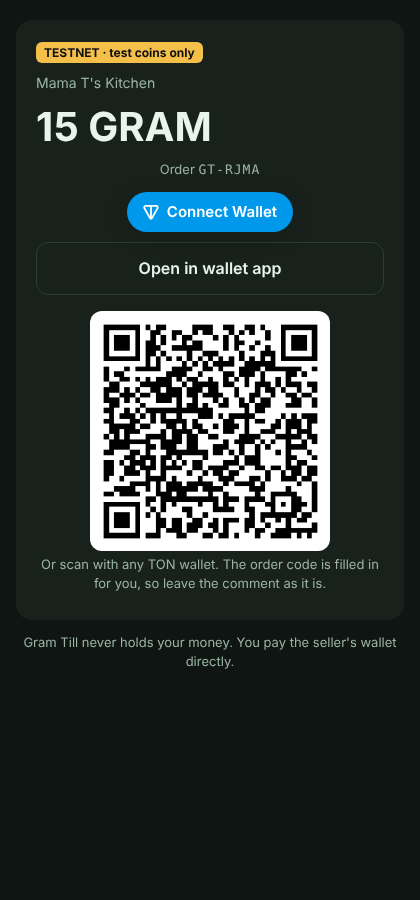
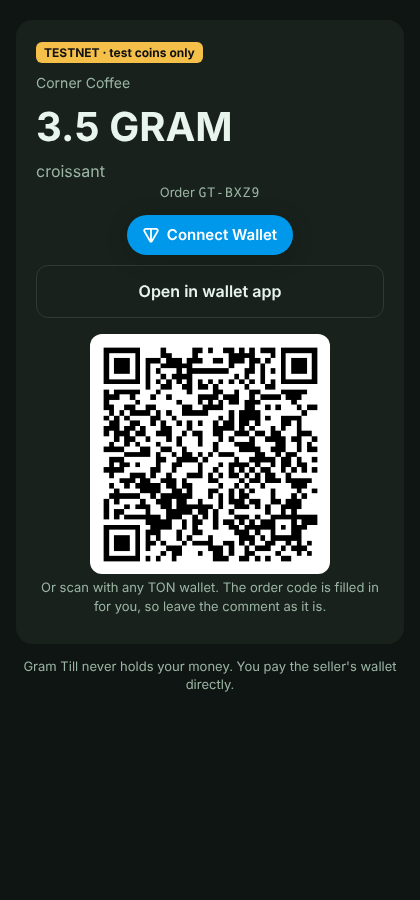
Worldwide by default: per-seller time zones, international examples, global pitch
- /timezone per seller (any IANA zone); server default UTC instead of Africa/Lagos
- Neutral demo shop (Corner Coffee) and examples; plural menu items ("two lattes")
- Fix: a ?pair= link now replaces a stale stored token (found while re-shooting screens)
- Simulator screenshots re-shot

Claude-Session: https://claude.ai/code/session_013ZMLVDSgRGfavTpG92Yftw

diff --git a/server/src/bot.ts b/server/src/bot.ts
@@ -3,7 +3,7 @@ import QRCode from 'qrcode'
 import type { Customer, Order, Seller, Store } from './db.js'
 import { fromNano, toNano } from './money.js'
 import type { TillBus } from './processor.js'
-import { isError, type Notifier, type TillService } from './service.js'
+import { isError, isValidTimezone, type Notifier, type TillService } from './service.js'
 import { friendlyAddress, isValidAddress, rawAddress, type Network } from './ton.js'
 import { parseCommand } from './voice.js'
 
@@ -14,6 +14,7 @@ interface BotDeps {
   service: TillService
   network: Network
   publicUrl: string
+  defaultTimezone: string
   log: (...a: unknown[]) => void
 }
 
@@ -24,12 +25,13 @@ const HELP = `*Gram Till*: a hands-free till for your Telegram shop, on Even G2 
 *Set up*
 /wallet <address>: change the wallet you get paid into
 /name <shop name>: rename your shop
-/menu jollof 12: set a menu price (/menu to list, /menu remove jollof)
+/menu latte 4: set a menu price (/menu to list, /menu remove latte)
+/timezone Europe/Berlin: your local time zone (for "today" totals)
 /link: your shop link and counter QR for customers
 
 *Use*
 /pair: 6-digit code to connect your glasses
-/charge Tunde 15 for jollof: charge from Telegram
+/charge Maria 12 for 2 lattes: charge from Telegram
 /waiting · /today · /customers
 
 Gram Till never holds money or keys. It only watches your wallet and sends payment links.`
@@ -93,9 +95,19 @@ export async function startBot(d: BotDeps): Promise<Notifier> {
     const seller = sellerOf(ctx)
     if (!seller) return ctx.reply('Send /start to set up your shop first.')
     const name = ctx.match?.trim()
-    if (!name) return ctx.reply('Usage: /name Mama T’s Kitchen')
+    if (!name) return ctx.reply('Usage: /name Corner Coffee')
     d.store.updateSellerName(seller.id, name.slice(0, 40))
     return ctx.reply(`✅ Shop name: ${name.slice(0, 40)}`)
+  })
+
+  bot.command('timezone', async ctx => {
+    const seller = sellerOf(ctx)
+    if (!seller) return ctx.reply('Send /start to set up your shop first.')
+    const tz = ctx.match?.trim() ?? ''
+    if (!tz) return ctx.reply(`Your till's day runs on ${seller.timezone ?? d.defaultTimezone}.\nChange it: /timezone Europe/Berlin (any IANA zone, e.g. America/New_York, Asia/Dubai, Asia/Jakarta)`)
+    if (!isValidTimezone(tz)) return ctx.reply('Unknown time zone. Examples: Europe/London, America/Sao_Paulo, Asia/Dubai, Asia/Tokyo')
+    d.store.updateSellerTimezone(seller.id, tz)
+    return ctx.reply(`✅ "Today" now follows ${tz}`)
   })
 
   bot.command('pair', async ctx => {
@@ -112,7 +124,7 @@ export async function startBot(d: BotDeps): Promise<Notifier> {
     if (!args) {
       const menu = d.store.listMenu(seller.id)
       return ctx.reply(
-        menu.length ? '📋 Menu\n' + menu.map(m => `• ${m.item}: ${fromNano(m.amountNano)} GRAM`).join('\n') + '\n\nSay "charge two jollof" on the glasses.' : 'No menu yet. Add one: /menu jollof 12',
+        menu.length ? '📋 Menu\n' + menu.map(m => `• ${m.item}: ${fromNano(m.amountNano)} GRAM`).join('\n') + '\n\nSay "charge two lattes" on the glasses.' : 'No menu yet. Add one: /menu latte 4',
       )
     }
     const rm = args.match(/^remove\s+(.+)$/i)
@@ -121,7 +133,7 @@ export async function startBot(d: BotDeps): Promise<Notifier> {
       return ctx.reply(`Removed ${rm[1]}`)
     }
     const m = args.match(/^(.+?)\s+(\d+(?:\.\d{1,9})?)$/)
-    if (!m) return ctx.reply('Usage: /menu jollof 12')
+    if (!m) return ctx.reply('Usage: /menu latte 4')
     d.store.setMenuItem(seller.id, m[1], toNano(m[2]))
     return ctx.reply(`✅ ${m[1].toLowerCase()}: ${m[2]} GRAM`)
   })
@@ -168,7 +180,7 @@ export async function startBot(d: BotDeps): Promise<Notifier> {
     if (!seller) return ctx.reply('Send /start to set up your shop first.')
     const ctxV = { menu: d.store.listMenu(seller.id).map(m => m.item), customers: d.store.listCustomers(seller.id).map(c => c.name) }
     const cmd = parseCommand(`charge ${ctx.match ?? ''}`, ctxV)
-    if (cmd.kind !== 'charge') return ctx.reply('Usage: /charge Tunde 15 for jollof')
+    if (cmd.kind !== 'charge') return ctx.reply('Usage: /charge Maria 12 for 2 lattes')
     const p = d.service.previewCharge(seller, cmd)
     if (isError(p)) return ctx.reply(p.error)
     const r = await d.service.charge(seller, p)
@@ -206,7 +218,7 @@ export async function startBot(d: BotDeps): Promise<Notifier> {
     if (!isValidAddress(text)) return ctx.reply("That doesn't look like a TON address. Try again.")
     steps.delete(ctx.chat.id)
     const seller = d.store.createSeller(st.name, friendlyAddress(text, d.network), rawAddress(text), ctx.chat.id)
-    await ctx.reply(`✅ ${seller.name} is ready. Watching \`${seller.address}\`${net}.\n\nNext: /link for your counter QR, /menu to add prices, /pair to connect your glasses.`, {
+    await ctx.reply(`✅ ${seller.name} is ready. Watching \`${seller.address}\`${net}.\n\nNext: /timezone for your local day, /link for your counter QR, /menu to add prices, /pair to connect your glasses.`, {
       parse_mode: 'Markdown',
     })
   })
@@ -217,7 +229,7 @@ export async function startBot(d: BotDeps): Promise<Notifier> {
     if (!seller || !ctx.chat || !ctx.from) return ctx.reply('Shop not found.')
     if (seller.tgChatId === ctx.chat.id) return ctx.reply("That's your own shop link. Share it with customers 🙂")
     const first = (ctx.from.first_name || 'Customer').trim()
-    // Keep names unique per shop so "charge Tunde" is never ambiguous.
+    // Keep names unique per shop so "charge Maria" is never ambiguous.
     let name = first
     const clash = d.store.findCustomer(seller.id, name)
     if (clash && clash.tgChatId !== ctx.chat.id) name = `${first} ${(ctx.from.last_name ?? ctx.from.username ?? String(ctx.from.id)).slice(0, 1).toUpperCase()}.`
@@ -276,6 +288,7 @@ export async function startBot(d: BotDeps): Promise<Notifier> {
     { command: 'waiting', description: 'Waiting orders' },
     { command: 'today', description: "Today's total" },
     { command: 'wallet', description: 'Wallet you get paid into' },
+    { command: 'timezone', description: 'Your local time zone' },
     { command: 'help', description: 'Help' },
   ])
   bot.catch(err => d.log('[bot] error:', err.message))

diff --git a/server/test/api.test.ts b/server/test/api.test.ts
@@ -4,7 +4,7 @@ import { buildApi } from '../src/api.js'
 import { Store } from '../src/db.js'
 import { toNano } from '../src/money.js'
 import { TillBus, processIncoming } from '../src/processor.js'
-import { TillService, startOfLocalDay, tzOffsetSeconds, type Notifier } from '../src/service.js'
+import { TillService, isValidTimezone, startOfLocalDay, tzOffsetSeconds, type Notifier } from '../src/service.js'
 import { pcmToWav } from '../src/stt.js'
 
 const ADDR = 'EQD2NmD_lH5f5u1Kj3KfGyTvhZSX0Eg6qp2a5IQUKXxOG21n'
@@ -110,6 +110,15 @@ describe('API', () => {
     expect(s.store.waitingOrders(s.seller.id)).toHaveLength(0)
   })
 
+  it("uses each seller's own time zone for today's totals", async () => {
+    const s = setup()
+    const api = await pair(s)
+    s.store.updateSellerTimezone(s.seller.id, 'Pacific/Kiritimati') // UTC+14, the earliest "today" on Earth
+    s.store.recordPayment({ txHash: 'y', sellerId: s.seller.id, amountNano: toNano('3'), comment: null, from: null, utime: Math.floor(Date.now() / 1000) - 60, result: 'unmatched', orderId: null })
+    const till = (await (await api('/api/till')).json()) as any
+    expect(till.today.total).toBe('3')
+  })
+
   it('serves the pay page and status', async () => {
     const s = setup()
     const order = s.store.createOrder({ sellerId: s.seller.id, label: 'Tunde', amountNano: toNano('15'), item: 'jollof' })
@@ -127,6 +136,18 @@ describe('API', () => {
 })
 
 describe('helpers', () => {
+  it('starts "today" at local midnight in any time zone', () => {
+    const t = Date.UTC(2026, 10, 22, 12, 0) / 1000 // noon UTC
+    expect(startOfLocalDay('UTC', t)).toBe(Date.UTC(2026, 10, 22, 0, 0) / 1000)
+    expect(startOfLocalDay('Asia/Tokyo', t)).toBe(Date.UTC(2026, 10, 21, 15, 0) / 1000) // UTC+9
+    expect(startOfLocalDay('America/New_York', t)).toBe(Date.UTC(2026, 10, 22, 5, 0) / 1000) // UTC-5 (standard time)
+    expect(startOfLocalDay('Asia/Kolkata', t)).toBe(Date.UTC(2026, 10, 21, 18, 30) / 1000) // UTC+5:30
+    expect(startOfLocalDay('Europe/Berlin', t)).toBe(Date.UTC(2026, 10, 21, 23, 0) / 1000) // UTC+1
+  })
+  it('validates IANA time zones', () => {
+    expect(isValidTimezone('America/Sao_Paulo')).toBe(true)
+    expect(isValidTimezone('Mars/Olympus')).toBe(false)
+  })
   it('computes Lagos day start', () => {
     expect(tzOffsetSeconds('Africa/Lagos')).toBe(3600)
     // 2026-11-22 00:30 Lagos = 2026-11-21 23:30 UTC -> day starts 2026-11-21 23:00 UTC

diff --git a/server/src/db.ts b/server/src/db.ts
@@ -9,6 +9,7 @@ export interface Seller {
   address: string // user-friendly form, used in links and display
   addressRaw: string // 0:… form, used for comparisons
   tgChatId: number | null
+  timezone: string | null // IANA zone, e.g. "Europe/Berlin"; null = server default
 }
 
 export interface Order extends MatchableOrder {
@@ -114,6 +115,9 @@ export class Store {
         hash TEXT NOT NULL
       );
     `)
+    // Migration: per-seller time zone (sellers can be anywhere).
+    const cols = this.db.prepare('PRAGMA table_info(sellers)').all() as { name: string }[]
+    if (!cols.some(c => c.name === 'timezone')) this.db.exec('ALTER TABLE sellers ADD COLUMN timezone TEXT')
   }
 
   // ---------- sellers ----------
@@ -128,6 +132,10 @@ export class Store {
   updateSellerAddress(id: number, address: string, addressRaw: string) {
     this.db.prepare('UPDATE sellers SET address = ?, address_raw = ? WHERE id = ?').run(address, addressRaw, id)
     this.db.prepare('DELETE FROM cursors WHERE seller_id = ?').run(id) // new wallet: start fresh
+  }
+
+  updateSellerTimezone(id: number, timezone: string) {
+    this.db.prepare('UPDATE sellers SET timezone = ? WHERE id = ?').run(timezone, id)
   }
 
   updateSellerName(id: number, name: string) {
@@ -334,7 +342,7 @@ export class Store {
 }
 
 function toSeller(r: any): Seller {
-  return { id: r.id, name: r.name, address: r.address, addressRaw: r.address_raw, tgChatId: r.tg_chat_id ?? null }
+  return { id: r.id, name: r.name, address: r.address, addressRaw: r.address_raw, tgChatId: r.tg_chat_id ?? null, timezone: r.timezone ?? null }
 }
 
 function toCustomer(r: any): Customer {

diff --git a/server/scripts/seed-demo.ts b/server/scripts/seed-demo.ts
@@ -13,8 +13,8 @@ const store = new Store(process.env.DB_PATH ?? './data/gramtill.db')
 const parsed = Address.parse(addr)
 const seller =
   store.listSellers().find(s => s.addressRaw === parsed.toRawString()) ??
-  store.createSeller("Mama T's Kitchen", parsed.toString({ testOnly: true, bounceable: false }), parsed.toRawString(), null)
-for (const [item, price] of [['jollof', '12'], ['fried rice', '12'], ['suya', '5'], ['zobo', '2']] as const) store.setMenuItem(seller.id, item, toNano(price))
-for (const name of ['Tunde', 'Bisi', 'Chidi']) store.upsertCustomer(seller.id, name, null)
+  store.createSeller('Corner Coffee', parsed.toString({ testOnly: true, bounceable: false }), parsed.toRawString(), null)
+for (const [item, price] of [['latte', '4'], ['espresso', '3'], ['croissant', '3.5'], ['flat white', '4.5']] as const) store.setMenuItem(seller.id, item, toNano(price))
+for (const name of ['Maria', 'Kenji', 'Aisha', 'Lucas']) store.upsertCustomer(seller.id, name, null)
 console.log(`Seller #${seller.id}: ${seller.name} watching ${seller.address}`)
 console.log(`Pairing code (10 min): ${store.createPairCode(seller.id)}`)

diff --git a/server/src/service.ts b/server/src/service.ts
@@ -24,6 +24,15 @@ export interface ChargePreview {
 
 export type ServiceError = { error: string }
 
+export function isValidTimezone(tz: string): boolean {
+  try {
+    new Intl.DateTimeFormat('en-US', { timeZone: tz })
+    return true
+  } catch {
+    return false
+  }
+}
+
 export function tzOffsetSeconds(timeZone: string, at = new Date()): number {
   const part = new Intl.DateTimeFormat('en-US', { timeZone, timeZoneName: 'longOffset' })
     .formatToParts(at)
@@ -51,7 +60,7 @@ export class TillService {
 
   snapshot(seller: Seller) {
     const now = Math.floor(Date.now() / 1000)
-    const totals = this.store.todayTotals(seller.id, startOfLocalDay(this.cfg.timezone, now))
+    const totals = this.store.todayTotals(seller.id, startOfLocalDay(seller.timezone ?? this.cfg.timezone, now))
     const labelFor = (orderId: number | null) => (orderId ? this.store.getOrder(orderId)?.label ?? null : null)
     return {
       seller: { name: seller.name, address: seller.address, network: this.cfg.network },

diff --git a/server/test/voice.test.ts b/server/test/voice.test.ts
@@ -47,6 +47,12 @@ describe('parseCommand: charge', () => {
   it('name + menu item + explicit price', () => {
     expect(p('charge Tunde jollof 15')).toEqual({ kind: 'charge', label: 'Tunde', amount: 15, item: 'jollof', qty: 1 })
   })
+  it('plural menu items ("two lattes")', () => {
+    const intl = { menu: ['latte', 'espresso', 'flat white'], customers: ['Maria', 'Kenji', 'Aisha'] }
+    expect(parseCommand('charge table four, two lattes', intl)).toEqual({ kind: 'charge', label: 'Table 4', amount: null, item: 'latte', qty: 2 })
+    expect(parseCommand('charge Kenji three espressos', intl)).toEqual({ kind: 'charge', label: 'Kenji', amount: null, item: 'espresso', qty: 3 })
+    expect(parseCommand('charge Aisha two flat whites', intl)).toEqual({ kind: 'charge', label: 'Aisha', amount: null, item: 'flat white', qty: 2 })
+  })
   it('two-word menu item', () => {
     expect(p('charge Chidi two fried rice')).toEqual({ kind: 'charge', label: 'Chidi', amount: null, item: 'fried rice', qty: 2 })
   })

diff --git a/server/src/api.ts b/server/src/api.ts
@@ -162,7 +162,7 @@ export function buildApi(d: ApiDeps) {
     try {
       const seller = c.get('seller')
       const vocab = [...d.store.listCustomers(seller.id).map(x => x.name), ...d.store.listMenu(seller.id).map(m => m.item)].slice(0, 40)
-      const transcript = await transcribe(pcm, { ...d.stt, prompt: `Charge Tunde fifteen. Charge table four, twelve for jollof. ${vocab.join(', ')}` })
+      const transcript = await transcribe(pcm, { ...d.stt, prompt: `Charge Maria twelve. Charge table four, two lattes. ${vocab.join(', ')}` })
       if (!transcript) return c.json({ transcript: '', action: 'error', message: "Didn't hear anything", examples: EXAMPLES })
       return interpret(c, transcript)
     } catch (err) {

diff --git a/server/src/config.ts b/server/src/config.ts
@@ -26,7 +26,8 @@ export const config = {
     model: env('STT_MODEL', 'whisper-large-v3-turbo') as string,
   },
   dbPath: env('DB_PATH', './data/gramtill.db') as string,
-  timezone: env('TILL_TIMEZONE', 'Africa/Lagos') as string,
+  /** Default for sellers who haven't set /timezone in the bot. */
+  timezone: env('TILL_TIMEZONE', 'UTC') as string,
   orderTtlMinutes: Number(env('ORDER_TTL_MINUTES', '30')),
   /** Largest single charge allowed from voice/glasses, in GRAM. Guards against misheard amounts. */
   maxChargeGram: Number(env('MAX_CHARGE_GRAM', '500')),

diff --git a/app/src/companion.ts b/app/src/companion.ts
@@ -44,7 +44,7 @@ export function mountCompanion(h: {
       <div class="muted" id="counts"></div>
       <div id="events" class="events"></div>
       <form id="typeForm">
-        <input id="typeIn" placeholder="Type a charge: Tunde 15 for jollof" autocomplete="off">
+        <input id="typeIn" placeholder="Type a charge: Maria 12 for 2 lattes" autocomplete="off">
         <button>Send</button>
       </form>
       <p class="muted small">On the glasses: <b>tap</b> to speak a charge, <b>swipe</b> for the menu, <b>double-tap</b> to go back.</p>

diff --git a/app/src/main.ts b/app/src/main.ts
@@ -117,7 +117,8 @@ async function main() {
   const params = new URLSearchParams(location.search)
   const urlServer = params.get('server')
   const urlCode = params.get('pair')
-  if (!backend.token && urlCode && /^\d{6}$/.test(urlCode)) {
+  // A pairing link always wins over a stored token (re-pairing a phone, or a stale token after a server reset).
+  if (urlCode && /^\d{6}$/.test(urlCode)) {
     if (urlServer) {
       backend.baseUrl = urlServer.replace(/\/$/, '')
       await save(bridge, K_SERVER, backend.baseUrl)

diff --git a/server/src/index.ts b/server/src/index.ts
@@ -34,7 +34,7 @@ serve({ fetch: app.fetch, port: config.port }, info => {
 watcher.start()
 
 if (config.telegramBotToken) {
-  startBot({ token: config.telegramBotToken, store, bus, service, network: config.network, publicUrl: config.publicUrl, log })
+  startBot({ token: config.telegramBotToken, store, bus, service, network: config.network, publicUrl: config.publicUrl, defaultTimezone: config.timezone, log })
     .then(notifier => {
       service.notifier = notifier
     })

diff --git a/app/src/format.ts b/app/src/format.ts
@@ -88,7 +88,7 @@ export function confirmCard(c: Confirm): string {
 }
 
 export function listeningCard(seconds: number): string {
-  return ['LISTENING...', 'e.g. "Charge Tunde fifteen"', '"Charge table 4 for two jollof"', '', `tap when done  |  ${seconds}s`].join('\n')
+  return ['LISTENING...', 'e.g. "Charge Maria twelve"', '"Charge table 4, two lattes"', '', `tap when done  |  ${seconds}s`].join('\n')
 }
 
 export const thinkingCard = (transcript?: string) =>
